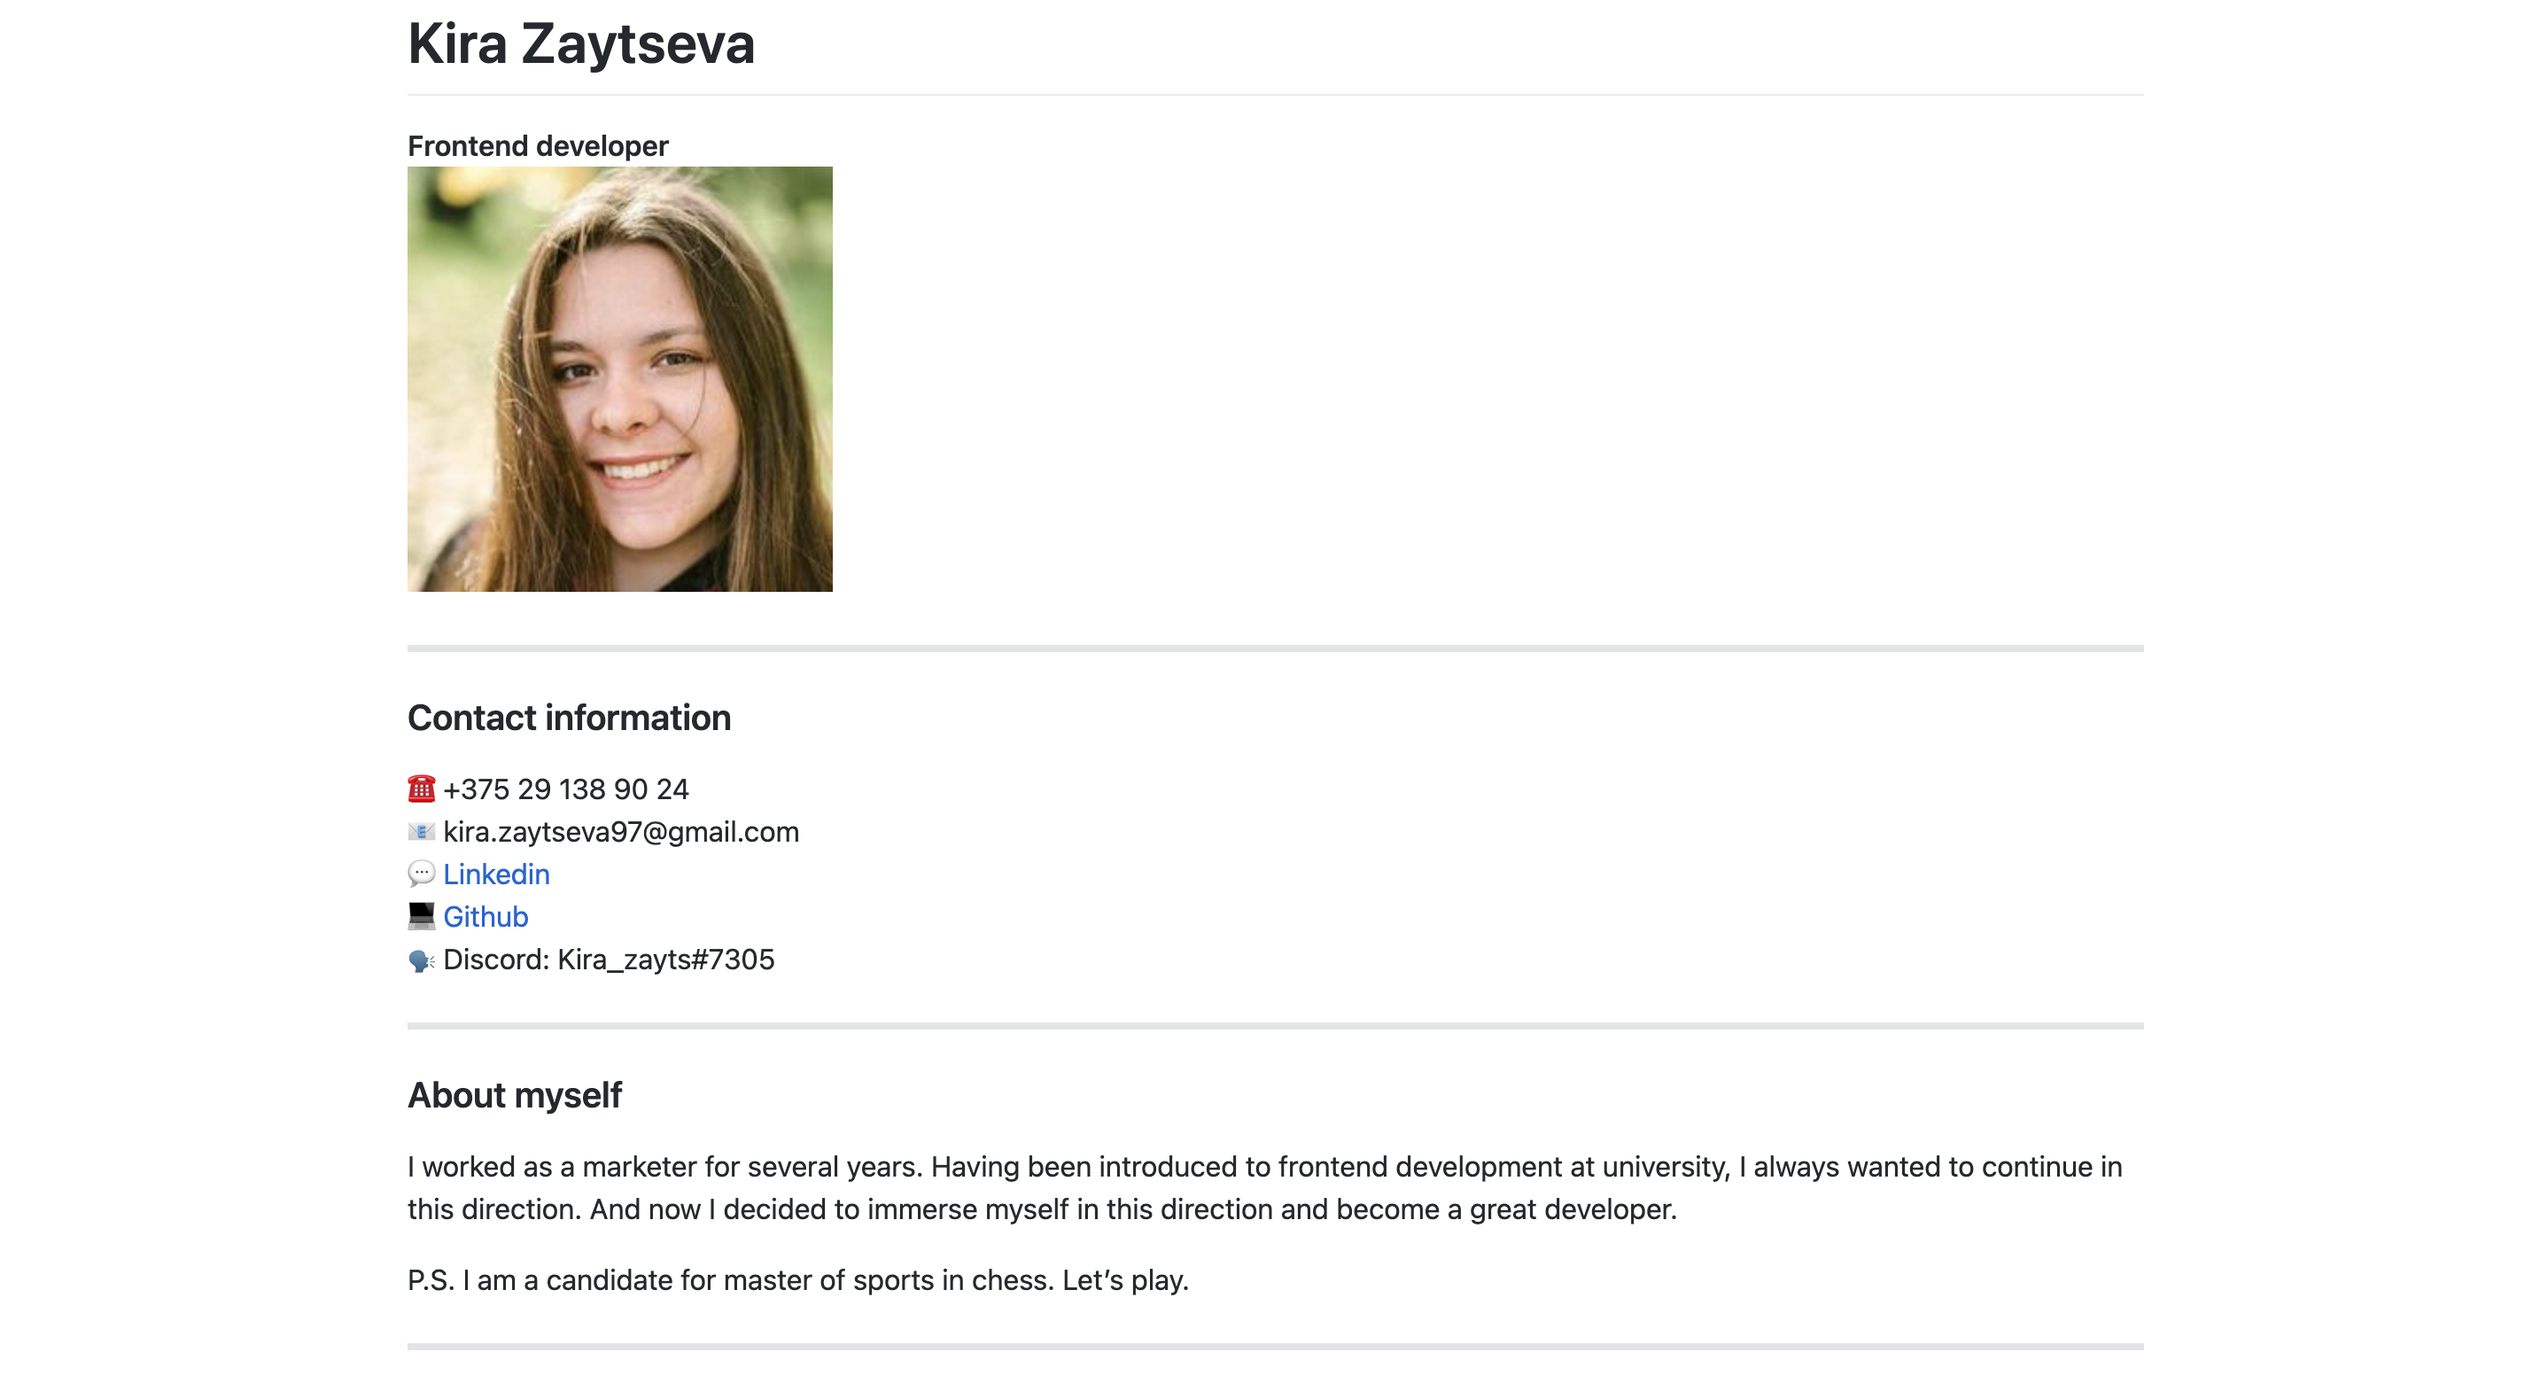
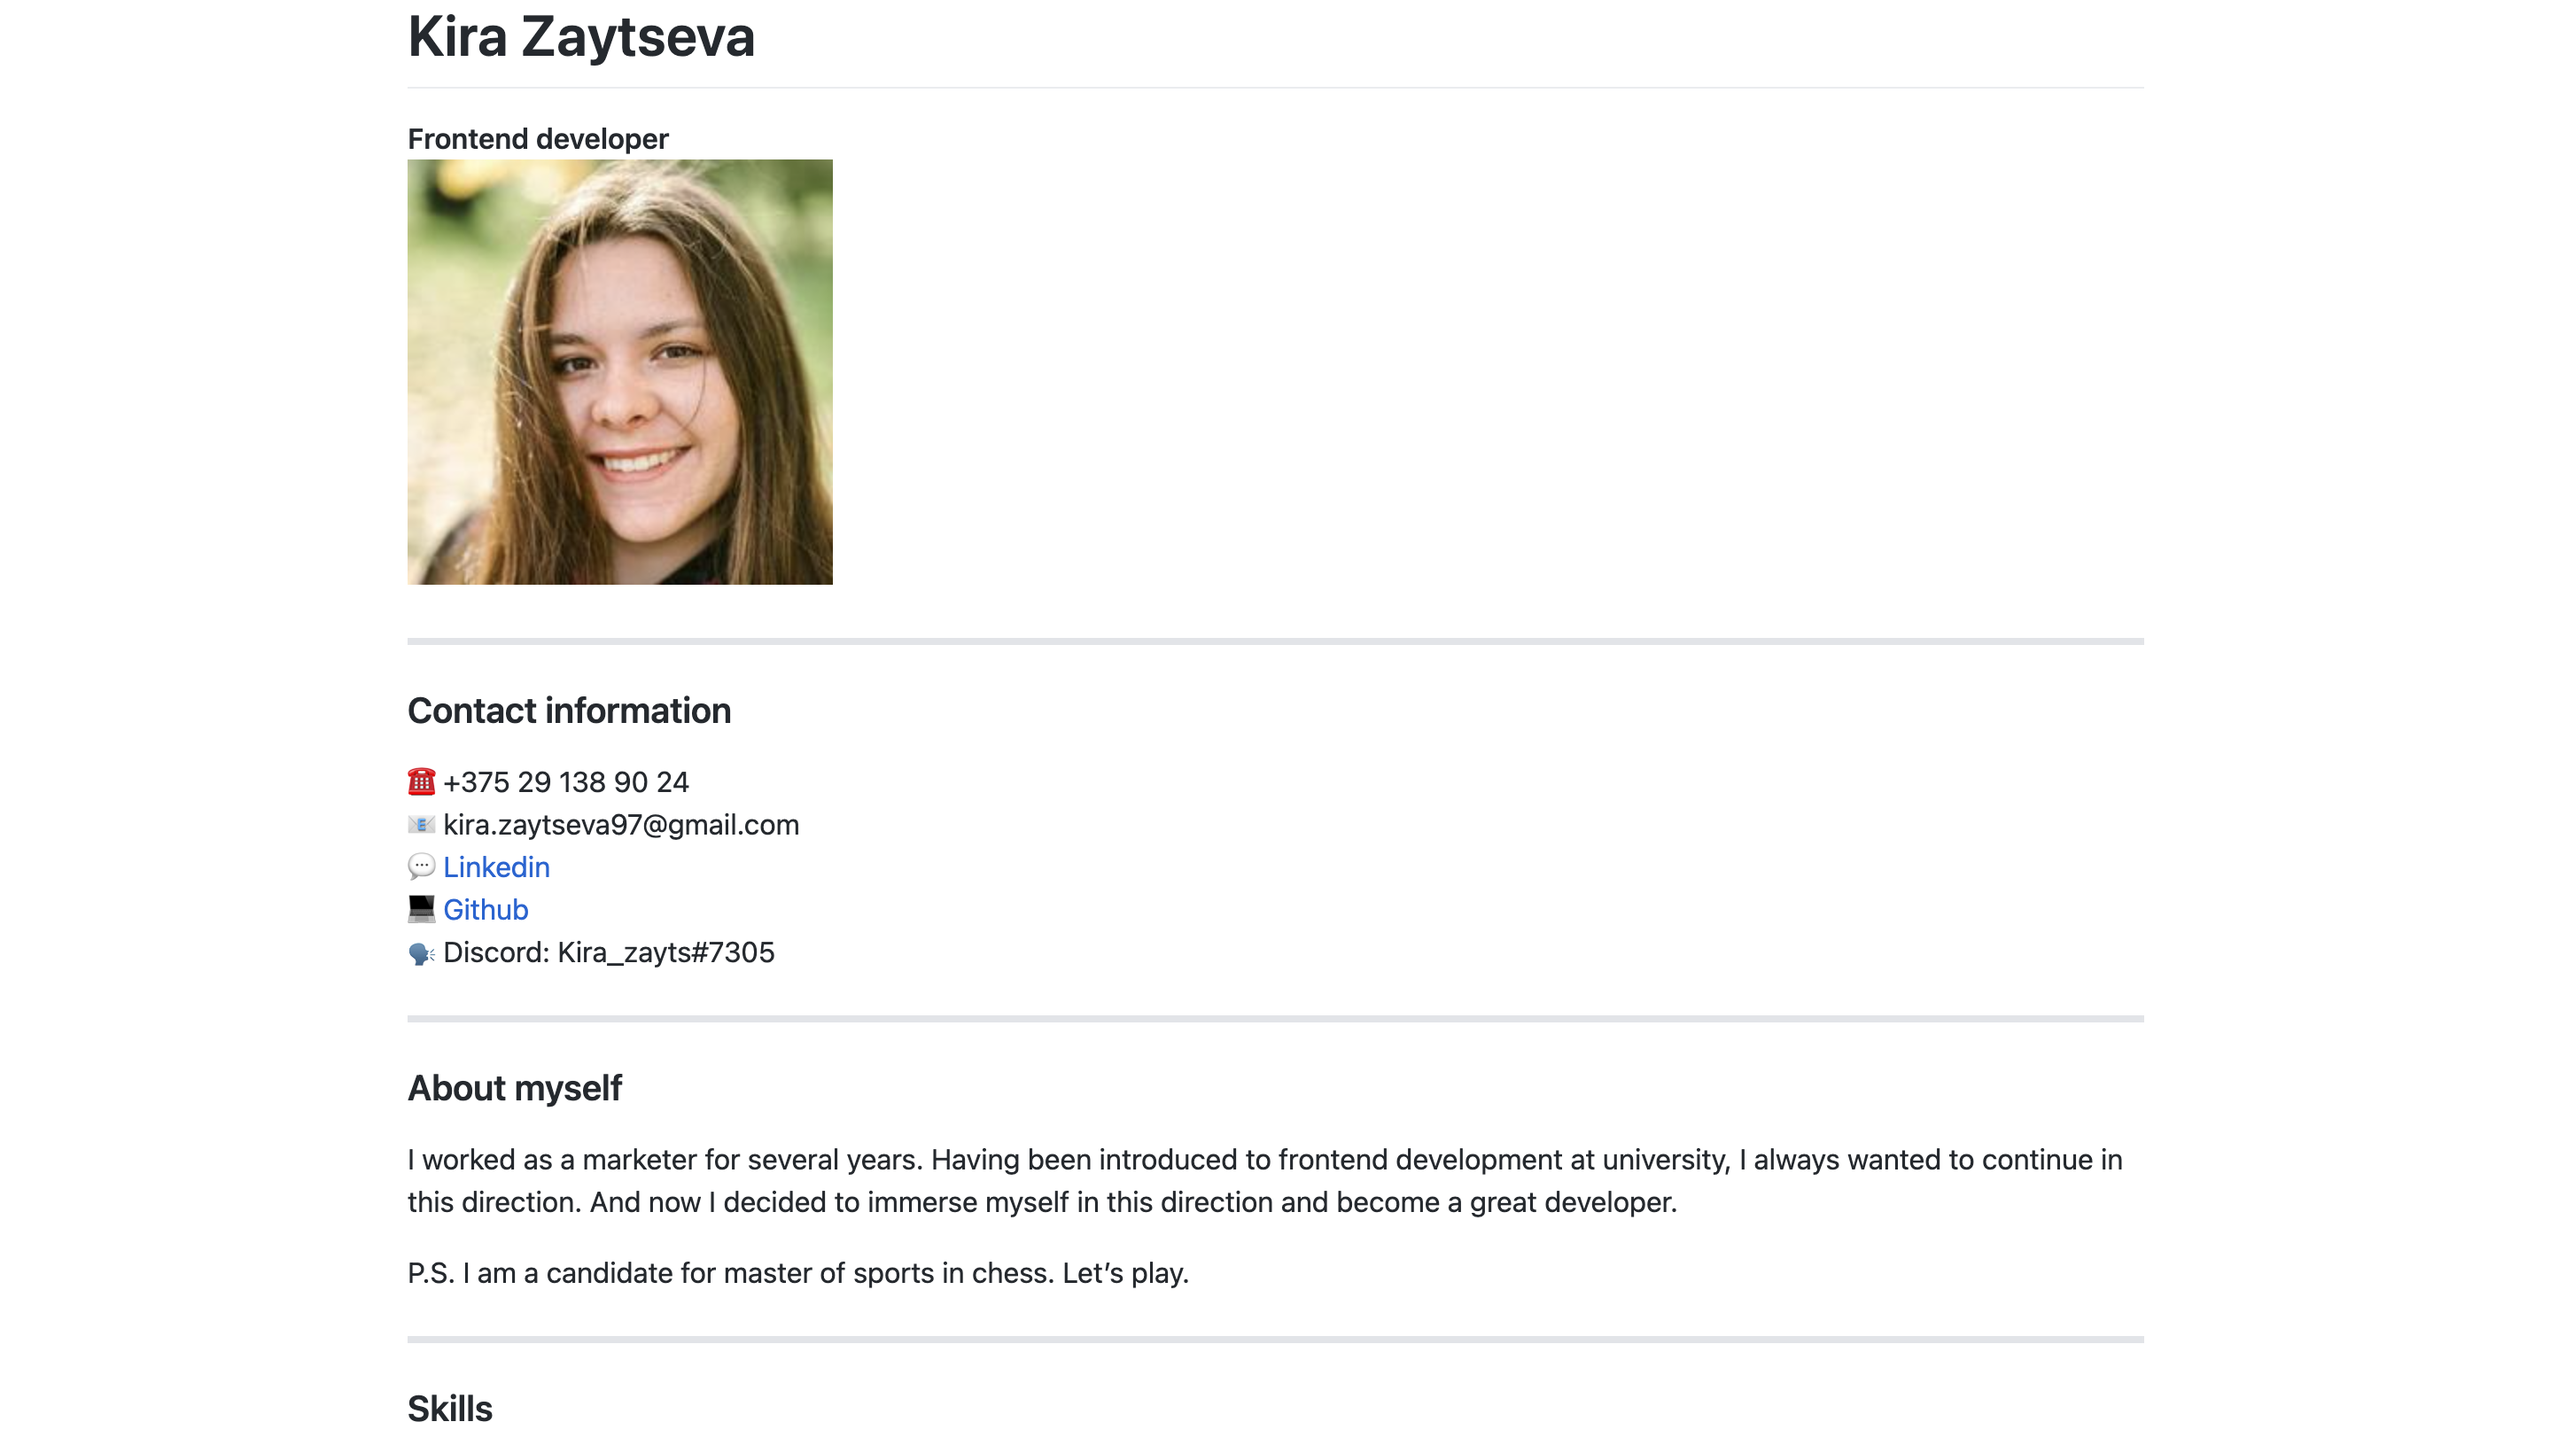
feat: added project examples

Changed region(s): [[0.1547, 0.0936, 0.8355, 0.9987], [0.1547, 0.0, 0.3095, 0.0624]]

diff --git a/index.html b/index.html
@@ -22,7 +22,7 @@
                     <li class="nav-item"><a href="#skills" class="nav-link">Skills</a></li>
                     <li class="nav-item"><a href="#education" class="nav-link">Education</a></li>
                     <li class="nav-item"><a href="#experience" class="nav-link">Experience</a></li>
-                    <li class="nav-item"><a href="#code" class="nav-link">Code</a></li>
+                    <li class="nav-item"><a href="#courses" class="nav-link">Courses</a></li>
                     <li class="nav-item"><a href="#languages" class="nav-link">Languages</a></li>
                     <li class="nav-item"><a href="#projects" class="nav-link">Projects</a></li>
                 </ul>
@@ -63,6 +63,7 @@
                     <li>Git, Github</li>
                     <li>VS Code</li>
                     <li>Figma, Photoshop</li>
+                    <li>SEO</li>
                 </ul>
             </section>
             <section class="section" id="education">
@@ -82,25 +83,13 @@
                 <p class="work-years">August 2019 - February 2022</p>
                 <a href="https://devby.io/" class="company-name" target="_blank">dev.by</a>
                 <p class="job-title">Marketing specialist</p>
-
             </section>
-            <section class="section" id="code">
-                <h2 class="section-title">Code Example</h2>
-                <pre>
-                    <code>
-function test (obj) {
-    return Object.keys(obj).reduce(
-        (acc, rec) => {
-            if (!obj[rec]) {
-                return [...acc, rec]
-            }
-        return [...acc]
-        },
-        []
-    )
-}
-                    </code>
-                </pre>
+            <section class="section" id="courses">
+                <h2 class="section-title">Courses</h2>
+                <p class="education-years"> May 2020 - July 2020</p>
+                <p class="courses-name">Website promotion & SEO optimization</p>
+                <p class="education-years"> June 2022 - August 2022</p>
+                <p class="courses-name">JavaScript/Front-end. Stage 0</p>
             </section>
             <section class="section" id="languages">
                 <h2 class="section-title">Languages</h2>
@@ -108,10 +97,37 @@ function test (obj) {
                 <p>English — Intermediate</p>
             </section>
             <section class="section" id="projects">
-                <h2 class="section-title">Projects</h2>
-                <a href="https://kira-zaytseva.github.io/rsschool-cv/cv" class="project-name" target="_blank">Markdown
-                    CV</a><br>
-                <a href="https://kira-zaytseva.github.io/rsschool-cv/cv" target="_blank"><img src="./assets/CV_markdown.png" alt="CV markdown project" class="markdown-project-image"></a>
+                <h2 class="section-title project-title">Projects</h2>
+                <div class="projects-container">
+                    <div class="project-example">
+                        <a href="https://kira-zaytseva.github.io/rsschool-cv/cv" class="project-name"
+                            target="_blank">Markdown
+                            CV</a><br>
+                        <a href="https://kira-zaytseva.github.io/rsschool-cv/cv" target="_blank"><img
+                                src="./assets/CV_markdown.png" alt="CV markdown project" class="project-image"></a>
+                    </div>
+                    <div class="project-example">
+                        <a href="https://kira-zaytseva.github.io/codejam-eldritch/" class="project-name"
+                            target="_blank">Eldritch Horror Game</a><br>
+                        <a href="https://kira-zaytseva.github.io/codejam-eldritch/" target="_blank"><img
+                                src="./assets/Eldritch.png" alt="Eldritch Horror" class="project-image"></a>
+                    </div>
+                    <div class="project-example">
+                        <a href="https://rolling-scopes-school.github.io/kira-zzz-JSFEPRESCHOOL2022Q2/travel/"
+                            class="project-name" target="_blank">Explore the world</a><br>
+                        <a href="https://rolling-scopes-school.github.io/kira-zzz-JSFEPRESCHOOL2022Q2/travel/"
+                            target="_blank"><img src="./assets/travel-project.png" alt="Travel project"
+                                class="project-image"></a>
+                    </div>
+
+                    <div class="project-example">
+                        <a href="https://rolling-scopes-school.github.io/kira-zzz-JSFEPRESCHOOL2022Q2/momentum/"
+                            class="project-name" target="_blank">Momentum</a><br>
+                        <a href="https://rolling-scopes-school.github.io/kira-zzz-JSFEPRESCHOOL2022Q2/momentum/"
+                            target="_blank"><img src="./assets/momentum.png" alt="Momentum project"
+                                class="project-image"></a>
+                    </div>
+                </div>
             </section>
         </div>
     </main>
@@ -120,8 +136,6 @@ function test (obj) {
         <div class="container footer-container">
             <a href="https://github.com/kira-zaytseva" class="github" target="_blank">kira-zaytseva</a>
             <p>© 2022</p>
-            <a href="https://rs.school/js/" class="rss-school" target="_blank"><img src="./assets/rs_school_js.svg"
-                    width="120" height="45" alt="RS School logo"></a>
         </div>
     </footer>
 </body>

diff --git a/style.css b/style.css
@@ -2,6 +2,10 @@
     box-sizing: border-box;
 }
 
+html {
+    scroll-behavior: smooth;
+}
+
 body {
     font-family: 'PT Sans', sans-serif;
     min-height: 100vh;
@@ -18,36 +22,13 @@ body {
     background-color: rgba(166 192 122 / 18%);
 }
 
-.header-info {
-    width: 100%;
-    min-height: 420px;
-    padding: 0 50px 20px 50px;
-    display: flex;
-    justify-content: end;
-    flex-direction: column;
-}
-
-.header-text {
-    padding: 30px 50px 30px 373px;
-}
-
-.info-name {
-    font-size: 40px;
-}
-
-.info-profession {
-    font-size: 24px;
-    font-style: italic;
-}
-
-.info-description {
-    font-size: 18px;
-    margin-bottom: 0;
-}
-
 .container {
     max-width: 1440px;
     margin: 0 auto;
+}
+
+.header .container {
+    position: relative;
 }
 
 .nav {
@@ -86,6 +67,15 @@ body {
     text-decoration: underline;
 }
 
+.header-info {
+    width: 100%;
+    min-height: 420px;
+    padding: 0 50px 20px 50px;
+    display: flex;
+    justify-content: end;
+    flex-direction: column;
+}
+
 .profile-photo {
     width: 40%;
     max-width: 300px;
@@ -94,22 +84,22 @@ body {
     left: 60px;
 }
 
-html {
-    scroll-behavior: smooth;
+.header-text {
+    padding: 30px 50px 30px 373px;
 }
 
-.section-item a {
-    color: #829985;
-    text-decoration: none;
-    transition: color 0.5s;
+.info-name {
+    font-size: 40px;
 }
 
-.section-item a:hover {
-    color: #4d2323;
+.info-profession {
+    font-size: 24px;
+    font-style: italic;
 }
 
-.header .container {
-    position: relative;
+.info-description {
+    font-size: 18px;
+    margin-bottom: 0;
 }
 
 .main-container {
@@ -123,6 +113,16 @@ html {
     width: 50%;
     padding-right: 50px;
 }
+
+/* .section-item a {
+    color: #829985;
+    text-decoration: none;
+    transition: color 0.5s;
+}
+
+.section-item a:hover {
+    color: #4d2323;
+} */
 
 .contacts-list a, .github, .project-name, .company-name {
     text-decoration: none;
@@ -143,7 +143,7 @@ html {
     margin-bottom: 0;
 }
 
-.speciality, .job-title {
+.speciality, .job-title, .courses-name {
     font-style: italic;
     margin-top: 0;
 }
@@ -157,21 +157,38 @@ html {
     text-decoration: underline;
 }
 
-.github:hover {
-    text-decoration: underline;
+#projects {
+    width: max-content;
 }
 
-.markdown-project-image {
+.projects-container {
+    display: flex;
+    flex-direction: row;
+    flex-wrap: wrap;
+    text-align: center;
+}
+
+.project-example {
+    display: flex;
+    flex-direction: column;
+}
+
+.project-title {
+    align-items: center;
+    
+}
+
+.project-image {
     margin-top: 15px;
-    margin-bottom: 15px;
+    margin-bottom: 20px;
     cursor: pointer;
-    max-width: 744px;
-    max-height: 392px;
+    max-width: 600px;
+    max-height: 315px;
     width: 90%;
 
 }
 
-.markdown-project-image:hover {
+.project-image:hover {
     transform: scale(1.1);
     transition: 0.5s;
 }
@@ -184,18 +201,16 @@ html {
     text-decoration: underline;
 }
 
-#projects {
-    display: flex;
-    flex-direction: column;
-    width: max-content;
-}
-
 .footer-container {
     display: flex;
     justify-content: space-around;
     align-items: center;
     list-style: none;
     background-color: rgb(166 192 122 / 18%);
+}
+
+.github:hover {
+    text-decoration: underline;
 }
 
 @media (max-width: 768px) {
